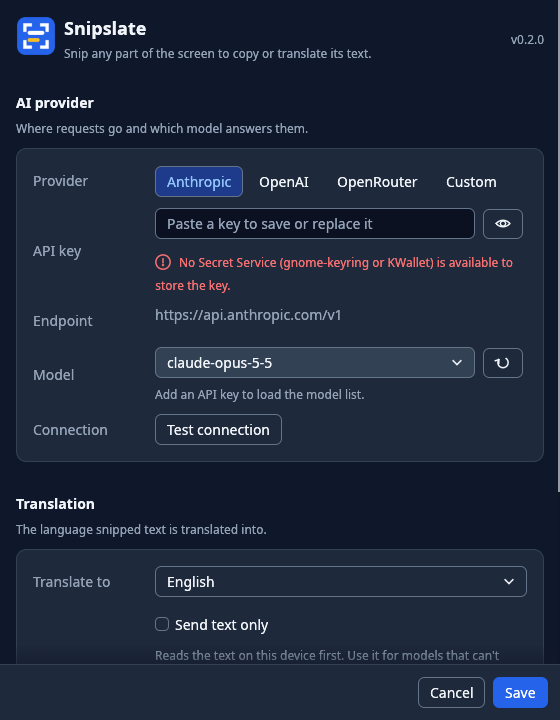
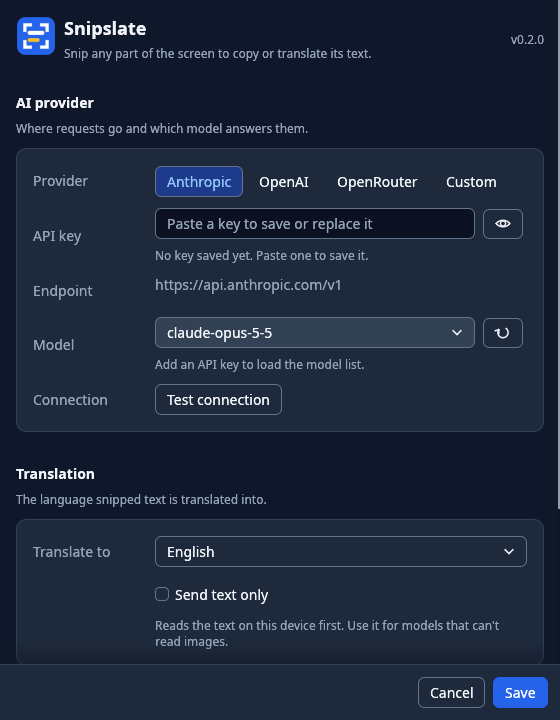
docs: link the website from the README and refresh the Settings image
The Settings screenshot now comes from a CI run with an unlocked
keyring, so it shows the normal empty-key state.

diff --git a/README.md b/README.md
@@ -4,6 +4,8 @@ Snip any part of your screen and **translate it** with your own AI key, or **cop
 
 Snipslate is a native tray app for **Windows, macOS and Linux**, written in Rust with egui.
 
+Website and documentation: <https://snipslate.akshitbansal.dev>. The site lives in [`site/`](site/) (Next.js, deployed on Vercel).
+
 - **Copy text** (`Ctrl+Alt+C`): drag a box and the text in it is copied to the clipboard. Uses the operating system's text recognition (Windows and macOS built-in, Tesseract on Linux), so it works offline and costs nothing.
 - **Translate** (`Ctrl+Alt+T`): drag a box and the snip goes to the AI provider you chose. The translation appears in a small popup next to the snip with a **Copy** button.
 
